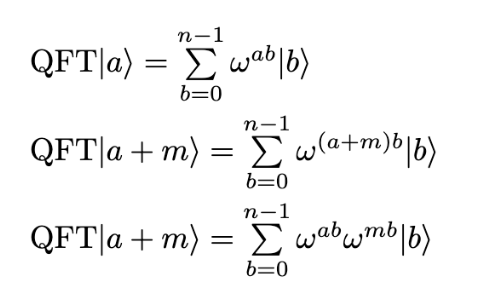
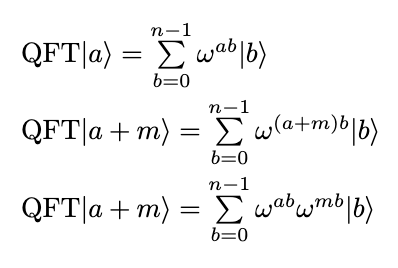
fixed latex sizes

Changed region(s): [[0.0302, 0.3582, 0.9648, 0.9552], [0.3618, 0.0896, 0.6633, 0.3582], [0.0302, 0.1493, 0.3618, 0.2687]]

diff --git a/INTRODUCTION.md b/INTRODUCTION.md
@@ -6,7 +6,7 @@ Here, we will explain how quantum addition and multiplication work and provide q
 
 Similar to how classical computers store numbers, quantum computers—at least for the purpose of addition and multiplication—store integers in binary. Classical computers usually store integers using a fixed number of bits, typically either 32 or 64 bits. However, since qubits are a much more limited resource than bits, quantum computers store a reduced range of numbers, generally well below 32 qubits per integer.
 
-Although qubits are probabilistic by nature, the initial and final integer states for quantum arithmetic circuits are designed NOT to be in a superposition; assuming no quantum noise, only one measurement is necessary to get the result of a single arithmetic operation.
+Although qubits are probabilistic by nature, the initial and final integer states for quantum arithmetic circuits are designed NOT to be in a superposition; assuming no quantum noise, only one measurement is necessary to get the result of a single arithmetic operation. Superposition is only used internally within the arithmetic circuits.
 
 ## Implementations of Addition and Multiplication
 
@@ -22,15 +22,15 @@ The fourier transform decomposes data into their constituent frequencies. Since 
 
 ## How the QFT Works
 
-Formally, the QFT is defined as:
-
-![](/images/QFT_definition.png)
-
-First, we partition the complex plane into multiple phases, one unique phase for each quantum state (note that if there are "n" input qubits, there are "2^n" input states). We define:
+For the QFT, we partition the complex plane into multiple phases, one unique phase for each quantum state (note that if there are "n" input qubits, there are "2^n" input states). We define:
 
 ![](/images/QFT_phase_partition.png)
 
-Then, we break the input state "a" and the output state "b" into their individual qubits (in order to build a circuit with gates operating on/between qubits, we need to see how the QFT acts on each individual qubit):
+Where omega is both the smallest possible phase in the QFT and the phase between any phase and the next largest phase. Formally, the QFT is defined as:
+
+![](/images/QFT_definition.png)
+
+To understand the QFT, we break the input state "a" and the output state "b" into their individual qubits (in order to build a circuit with gates operating on/between qubits, we need to see how the QFT acts on each individual qubit):
 
 ![](/images/QFT_expansion.png)
 *Notice how we are summing between the 0th to (n-1)th qubits of each state. Each sum contains n terms, one term for each qubit.*
@@ -58,3 +58,5 @@ If we decompose "m" and "b" in the second phase into their individual qubits usi
 (insert circuit)
 
 ## How QFT Multiplication Works
+
+## Optimizations
